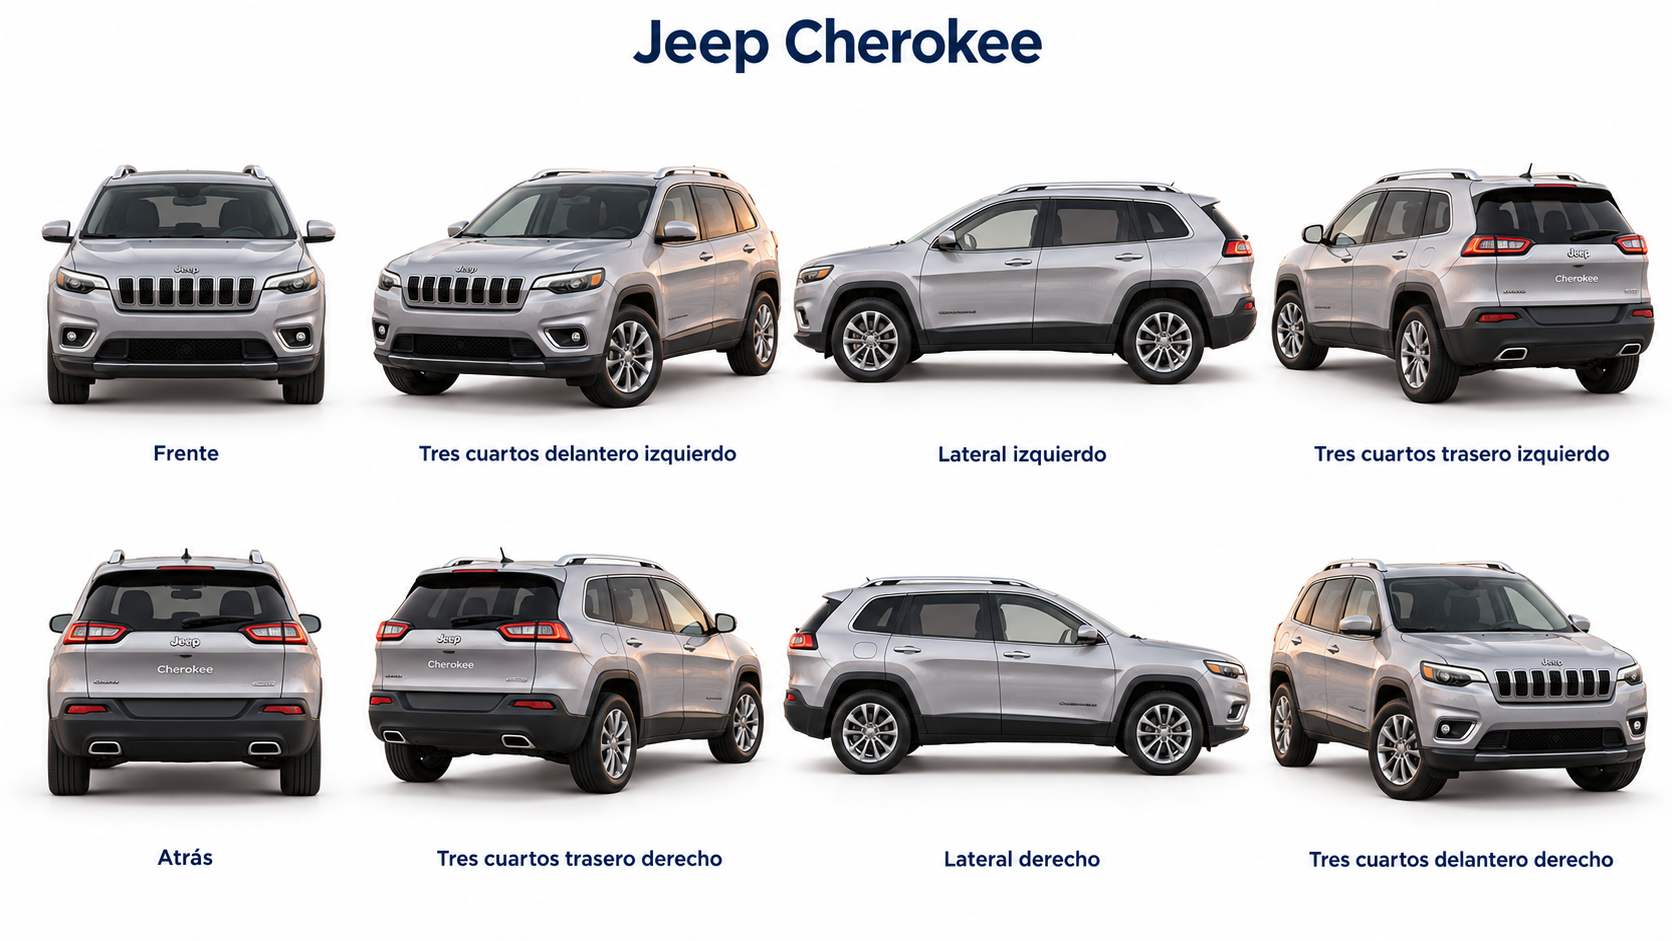
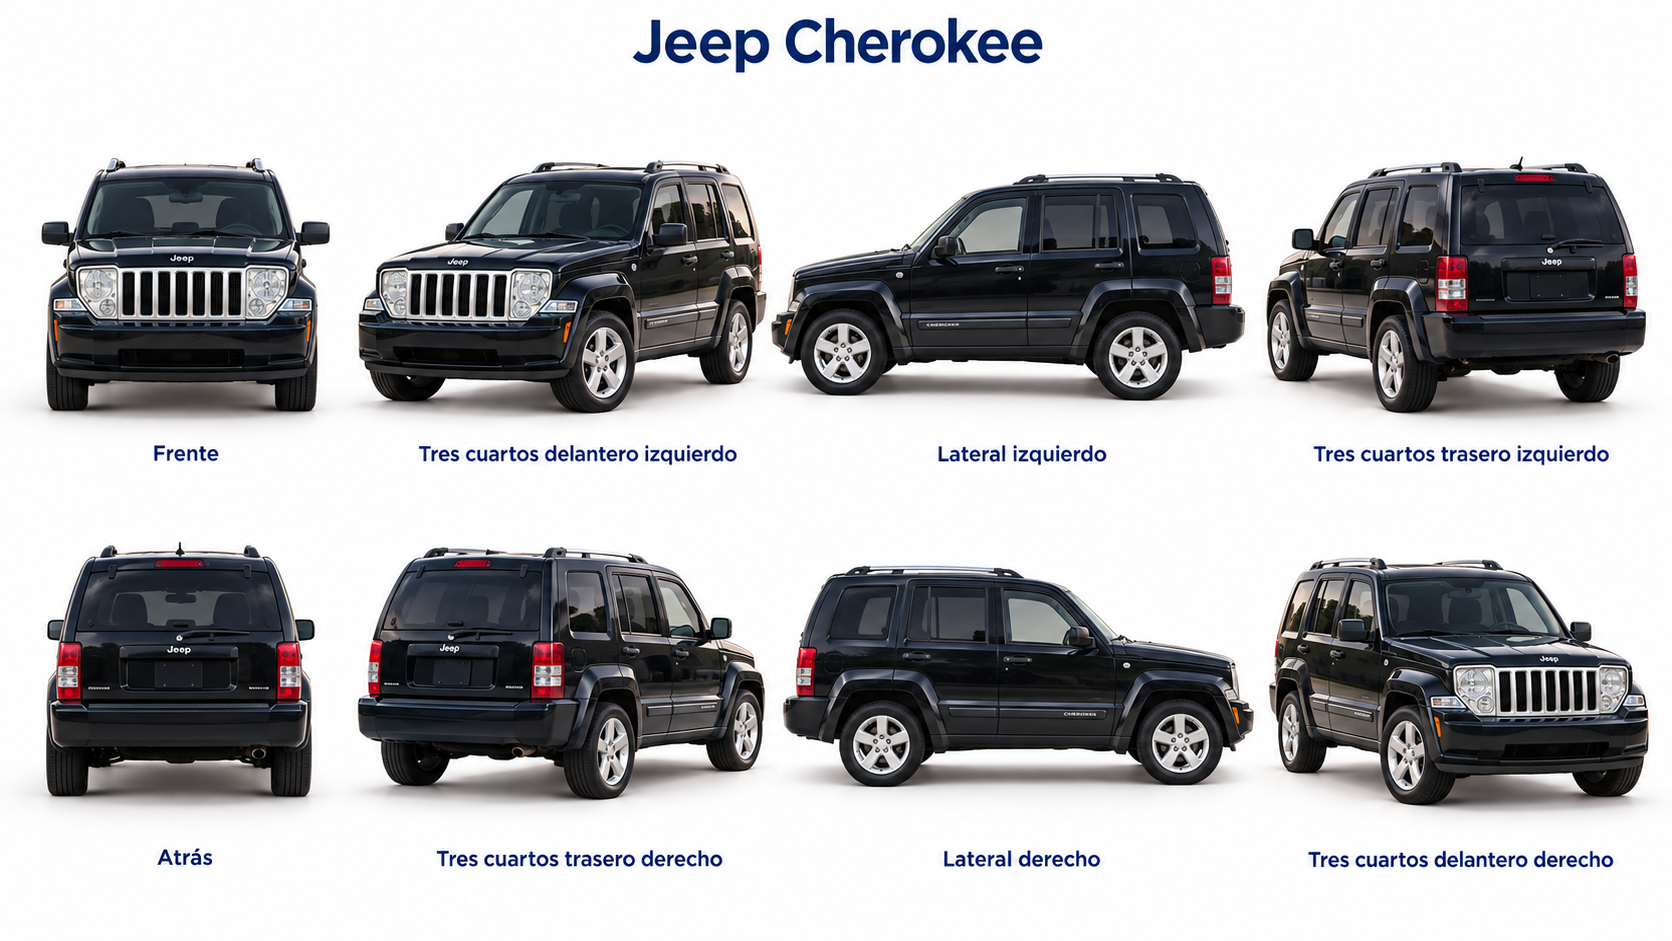
Correct Cherokee body from user reference across fleet assets and angle sheet

diff --git a/lib/fleet.ts b/lib/fleet.ts
@@ -60,10 +60,10 @@ export const fleet = [
   },
   {
     id: 'cherokee',
-    showroomScene: '/images/showroom-cherokee.webp',
-    showroomCutout: '/images/showroom-cherokee-cutout.webp',
-    showroomMask: '/images/showroom-cherokee-mask.webp',
-    cutout: '/images/cherokee.png',
+    showroomScene: '/images/cherokee-reference-showroom.webp',
+    showroomCutout: '/images/cherokee-reference-cutout.webp',
+    showroomMask: '/images/cherokee-reference-alpha.png',
+    cutout: '/images/cherokee-reference-cutout.png',
     category: 'SUV',
     make: 'Jeep',
     model: 'Cherokee',
@@ -72,9 +72,9 @@ export const fleet = [
     passengers: 5,
     bags: 3,
     doors: 4,
-    image: '/images/cherokee-scene.webp',
-    mobileImage: '/images/cherokee-mobile.webp',
-    thumbnail: '/images/cherokee-thumb.webp',
+    image: '/images/cherokee-reference-scene.webp',
+    mobileImage: '/images/cherokee-reference-mobile.webp',
+    thumbnail: '/images/cherokee-reference-thumb.webp',
     description:
       'Para los planes que piden más. Tú decides hasta dónde llegar.',
   },

diff --git a/lib/vehicle-shadows.ts b/lib/vehicle-shadows.ts
@@ -31,11 +31,11 @@ export const vehicleShadows: Record<
     ],
   },
   cherokee: {
-    body: [868, 704, 445, 67, -4],
+    body: [929, 718, 437, 65, -4],
     tires: [
-      [909, 744, 75, 18],
-      [1210, 687, 54, 13],
-      [550, 711, 70, 13],
+      [912, 758, 74, 16],
+      [1281, 691, 58, 13],
+      [592, 711, 70, 13],
     ],
   },
   explorer: {

diff --git a/design-proposals/scroll-animation/VISUAL-QA.md b/design-proposals/scroll-animation/VISUAL-QA.md
@@ -1,6 +1,6 @@
 # Fleet turnaround concept sheets — visual QA
 
-Generated with exactly five built-in ImageGen calls, one per vehicle, in one parallel batch. No alternatives, retries, website changes or image post-processing were performed. Exact prompts and input-image paths are in prompts.json.
+Initially generated with five built-in ImageGen calls. The Cherokee sheet was replaced on 2026-09-10 after the user supplied its correct body reference. Exact current prompts and input-image paths are in PROMPTS.json.
 
 ## Common findings
 
@@ -36,10 +36,10 @@ File: camry-eight-views.png
 
 ### Jeep Cherokee
 File: cherokee-eight-views.png
-- Silver current-reference Cherokee body, unified narrow headlamps, seven-slot grille, roof rails and dark cladding preserved.
-- Eight angle categories present.
-- Fuel door appears in both side profiles. Rear badges are enlarged/partly invented and small lettering is imperfect. Rear trim/exhaust are inferred.
-- No substitution with Grand Cherokee or a vintage boxy model.
+- Corrected 2026-09-10 to the user’s dark, older boxy Cherokee reference: upright rectangular headlamps, chrome seven-slot grille, factory five-spoke silver wheels and roof rails.
+- All eight requested angle categories present. Black/dark navy paint and boxy body family remain consistent.
+- Fuel door appears on the left rear quarter; the right profile does not duplicate it.
+- Unseen rear surfaces, trim and badges are inferred. Frontal/rear views are still larger relative to profiles, so this remains a concept sheet rather than continuity-locked animation frames.
 
 ### Ford Explorer
 File: explorer-eight-views.png
@@ -54,3 +54,5 @@ Original generation outputs were saved outside the Site checkout in:
 C:/Users/home/.codex/generated_images/work/fleet-turnaround-2026-09-10/
 
 The Site owner copied all five PNGs, prompts and this review into `design-proposals/scroll-animation/`. These are concept references only; no live website images or interaction were replaced.
+
+Cherokee correction sources: design-proposals/cherokee-reference/. The website now uses a separate corrected foreground; the eight-angle sheet remains a planning artifact.

diff --git a/design-proposals/cherokee-reference/README.md b/design-proposals/cherokee-reference/README.md
@@ -1,0 +1,17 @@
+# Cherokee según la foto del usuario
+
+La referencia vinculante es [la foto aportada](vehicle-reference.png): carrocería cuadrada oscura, parrilla cromada de siete ranuras, faros rectangulares verticales, rines de fábrica y barras de techo. Se conserva el nombre comercial Jeep Cherokee sin atribuir un año exacto.
+
+## Recursos
+
+- Hoja de ocho vistas: ../scroll-animation/cherokee-eight-views.png.
+- Recorte con transparencia real: ../../public/images/cherokee-reference-cutout.png y .webp.
+- Composición sobre el mismo fondo de Maracaibo: ../../public/images/cherokee-reference-showroom.webp.
+- Escena, detalle móvil y miniatura: ../../public/images/cherokee-reference-scene.webp, -mobile.webp y -thumb.webp.
+- Canal de aislamiento: ../../public/images/cherokee-reference-alpha.png. Es una máscara técnica, no una imagen visible del vehículo.
+
+## Generación y exportación
+
+Imágenes generadas mediante ImageGen integrado; prompts completos en PROMPTS.json. La exportación conserva los píxeles de color del vehículo y usa su alfa o la máscara generada para separarlo. Se ajusta el tamaño del recorte al lienzo de 1859×846 y se compone sobre el fondo existente, con sombras de contacto propias de la interfaz. EXPORT-VERIFICATION.json registra transparencia, márgenes, límites y encaje en catálogo.
+
+El carrusel y catálogo comparten el nuevo recorte. Tarifa $130/día, cinco pasajeros, tres maletas, cuatro puertas y transmisión automática permanecen iguales. Las vistas posteriores y del lado opuesto son interpretaciones visuales, pendientes de referencias reales antes de preparar una secuencia continua.

diff --git a/DESIGN.md b/DESIGN.md
@@ -196,3 +196,7 @@ React 19 con Vinext (estructura compatible con Next App Router), CSS/Tailwind y 
 Comprobaciones: compilación de producción, TypeScript y lint; once pruebas de inventario, límites de selección, filtros, enlaces de reserva, validación de contacto, recuperación de navegación y transparencia/alineación de recursos. Se retiraron las pruebas del antiguo interpolador de scroll junto con ese código. Verificación HTTP de las cinco rutas y recursos usados.
 
 No se realizaron pruebas visuales o interactivas en navegador. El video sí se inspeccionó mediante fotogramas locales. El WebMCP opcional de lectura de la flota se conserva; su disponibilidad depende del navegador.
+
+## Cherokee corregida según la unidad de referencia
+
+La foto del usuario en `design-proposals/cherokee-reference/vehicle-reference.png` sustituye la Cherokee moderna plateada. La representación usa carrocería cuadrada oscura, faros rectangulares verticales, parrilla cromada de siete ranuras y rines de fábrica. No se asigna un año exacto. El carrusel, catálogo, miniaturas y detalles comparten los archivos `cherokee-reference-*`, con el mismo fondo y sombras de contacto ajustadas. Se mantienen nombre comercial, tarifa y capacidades. La hoja de ocho vistas también se corrige; los ángulos no visibles en la foto son interpretaciones para preparar la animación.

diff --git a/design-proposals/scroll-animation/README.md b/design-proposals/scroll-animation/README.md
@@ -38,7 +38,7 @@ Una hoja por modelo, con ocho vistas del mismo vehículo sobre fondo de estudio 
 | Mitsubishi Lancer | Carrocería anterior corregida con la foto del usuario; gris cálido, sin apariencia Evo |
 | Chevrolet Cruze | Modelo negro representado actualmente en la web |
 | Toyota Camry | Modelo vinotinto representado actualmente en la web |
-| Jeep Cherokee | Modelo plateado representado actualmente en la web |
+| Jeep Cherokee | Carrocería cuadrada oscura, faros rectangulares y parrilla cromada, según la nueva foto del usuario |
 | Ford Explorer | Modelo plateado representado actualmente en la web |
 
 Las vistas no presentes en las referencias son interpretaciones generadas, pendientes de revisión de identidad. Estas hojas son referencias visuales; no constituyen todavía una secuencia continua de fotogramas ni una rotación 3D exacta.
